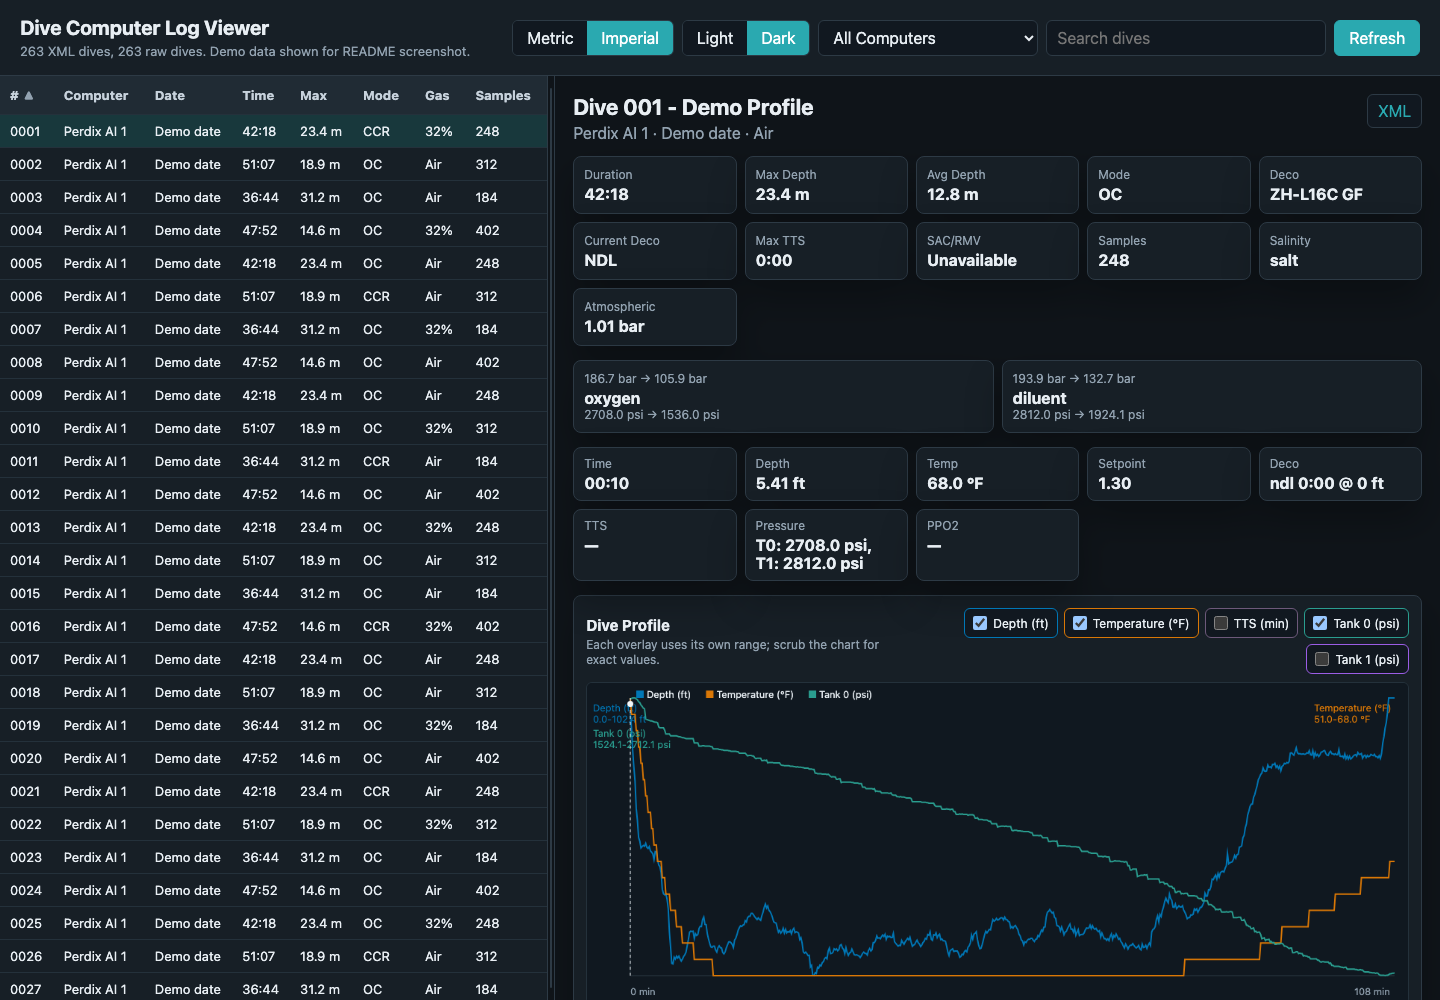
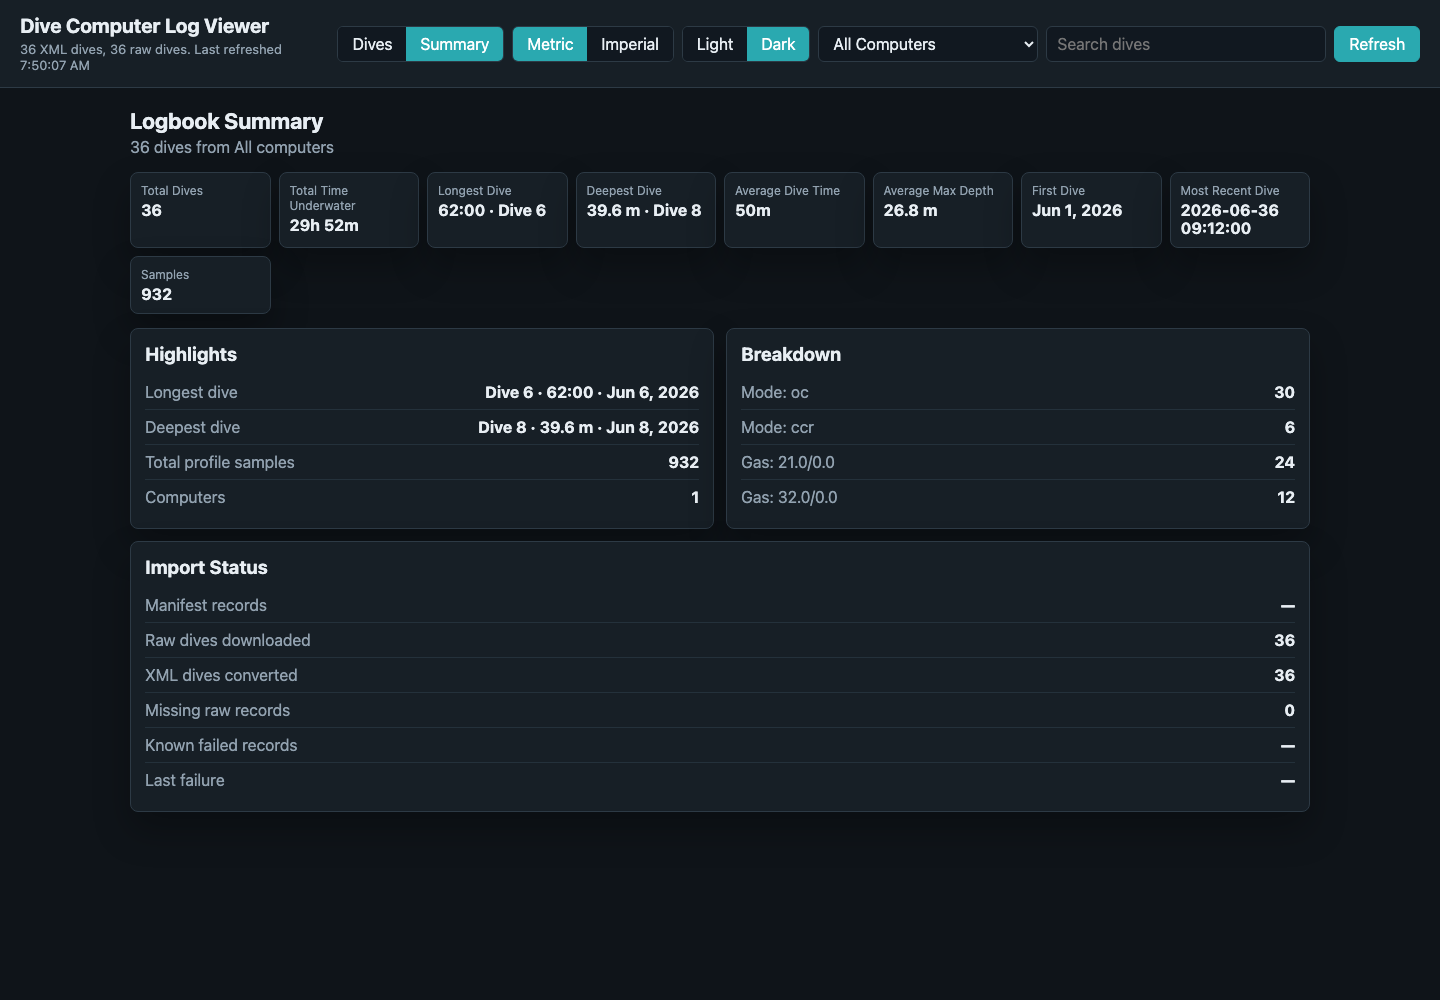
Update viewer screenshots

diff --git a/viewer/app.js b/viewer/app.js
@@ -1,19 +1,30 @@
+const urlParams = new URLSearchParams(window.location.search);
+
 const state = {
   dives: [],
   importStatus: null,
   selected: null,
-  view: localStorage.getItem("dclvView") || "dives",
+  view: urlParams.get("view") || localStorage.getItem("dclvView") || "dives",
   query: "",
   computer: "",
   sortKey: localStorage.getItem("dclvSortKey") || "displayNumber",
   sortDir: localStorage.getItem("dclvSortDir") || "asc",
-  units: localStorage.getItem("perdixUnits") || "metric",
-  theme: localStorage.getItem("perdixTheme") || (window.matchMedia("(prefers-color-scheme: dark)").matches ? "dark" : "light"),
+  units: urlParams.get("units") || localStorage.getItem("perdixUnits") || "metric",
+  theme: urlParams.get("theme") || localStorage.getItem("perdixTheme") || (window.matchMedia("(prefers-color-scheme: dark)").matches ? "dark" : "light"),
   visibleSeries: new Set(["depth", "temperature"]),
 };
 
 if (state.sortKey === "number") {
   state.sortKey = "displayNumber";
+}
+if (!["dives", "summary"].includes(state.view)) {
+  state.view = "dives";
+}
+if (!["metric", "imperial"].includes(state.units)) {
+  state.units = "metric";
+}
+if (!["light", "dark"].includes(state.theme)) {
+  state.theme = "light";
 }
 
 const els = {
@@ -278,6 +289,10 @@ async function loadSummaries() {
   renderSummary();
   const errors = data.errors?.length ? `, ${data.errors.length} parse errors` : "";
   els.status.textContent = `${data.xmlCount} XML dives, ${data.rawCount} raw dives${errors}. Last refreshed ${new Date().toLocaleTimeString()}`;
+  if (!state.selected && urlParams.get("select") === "first") {
+    const first = filteredDives().sort(compareDives)[0];
+    if (first) await selectDive(first.id);
+  }
 }
 
 function renderComputerFilter() {

diff --git a/scripts/serve_viewer.py b/scripts/serve_viewer.py
@@ -363,7 +363,7 @@ def import_status(raw_dir: Path, log_dir: Path = DEFAULT_LOG_DIR) -> dict[str, o
     }
 
 
-def summaries(xml_dir: Path, raw_dir: Path) -> dict[str, object]:
+def summaries(xml_dir: Path, raw_dir: Path, log_dir: Path = DEFAULT_LOG_DIR) -> dict[str, object]:
     dives = []
     errors = []
     for path in xml_files(xml_dir):
@@ -378,7 +378,7 @@ def summaries(xml_dir: Path, raw_dir: Path) -> dict[str, object]:
         "dives": dives,
         "xmlCount": len(dives),
         "rawCount": raw_count(raw_dir),
-        "status": import_status(raw_dir),
+        "status": import_status(raw_dir, log_dir),
         "errors": errors,
     }
 
@@ -403,6 +403,7 @@ def find_xml_by_id(xml_dir: Path, dive_id: str) -> Path | None:
 class ViewerHandler(BaseHTTPRequestHandler):
     xml_dir: Path = DEFAULT_XML_DIR
     raw_dir: Path = DEFAULT_RAW_DIR
+    log_dir: Path = DEFAULT_LOG_DIR
 
     def log_message(self, fmt: str, *args: object) -> None:
         print(f"{self.address_string()} - {fmt % args}")
@@ -451,7 +452,7 @@ class ViewerHandler(BaseHTTPRequestHandler):
         route = unquote(parsed.path)
 
         if route == "/api/dives":
-            self.send_json(summaries(self.xml_dir, self.raw_dir))
+            self.send_json(summaries(self.xml_dir, self.raw_dir, self.log_dir))
             return
 
         if route.startswith("/api/dives/"):
@@ -508,15 +509,18 @@ def main() -> int:
     parser.add_argument("--port", type=int, default=8080)
     parser.add_argument("--xml-dir", type=Path, default=DEFAULT_XML_DIR)
     parser.add_argument("--raw-dir", type=Path, default=DEFAULT_RAW_DIR)
+    parser.add_argument("--log-dir", type=Path, default=DEFAULT_LOG_DIR)
     args = parser.parse_args()
 
     ViewerHandler.xml_dir = args.xml_dir.resolve()
     ViewerHandler.raw_dir = args.raw_dir.resolve()
+    ViewerHandler.log_dir = args.log_dir.resolve()
 
     server = ThreadingHTTPServer((args.host, args.port), ViewerHandler)
     print(f"Serving viewer at http://{args.host}:{args.port}")
     print(f"XML directory: {ViewerHandler.xml_dir}")
     print(f"Raw directory: {ViewerHandler.raw_dir}")
+    print(f"Log directory: {ViewerHandler.log_dir}")
     server.serve_forever()
     return 0
 

diff --git a/README.md b/README.md
@@ -231,13 +231,19 @@ Start the viewer server:
 python3 scripts/serve_viewer.py
 ```
 
+For alternate data locations, pass explicit directories:
+
+```sh
+python3 scripts/serve_viewer.py --xml-dir data/xml --raw-dir data/raw --log-dir logs
+```
+
 Open:
 
 ```text
 http://127.0.0.1:8080
 ```
 
-Screenshots below use redacted demo values in the visible list/detail fields.
+Screenshots below use a sanitized demo fixture, not local dive data.
 
 ![Dive Computer Log Viewer light theme](docs/screenshots/viewer-light.png)
 
@@ -246,6 +252,13 @@ Screenshots below use redacted demo values in the visible list/detail fields.
 The viewer reads `data/xml/**/*.xml` on demand. You can keep downloading and
 converting dives in another terminal; click **Refresh** in the browser to rescan
 the XML directory.
+
+The viewer accepts optional URL parameters for shareable views and repeatable
+screenshots:
+
+```text
+?theme=light|dark&view=dives|summary&units=metric|imperial&select=first
+```
 
 Use the **Summary** view to see aggregate logbook stats such as total dives,
 total time underwater, longest dive, deepest dive, average dive time, average max

diff --git a/.agent/CONTINUITY.md b/.agent/CONTINUITY.md
@@ -35,3 +35,4 @@
 - 2026-07-04T13:10:38-0700 [agent] Updated viewer numbering to use chronological display numbers per dive computer while preserving original computer record numbers for filenames, resume checks, and detail subtitles.
 - 2026-07-05T07:32:10-0700 [agent] Documented observed manifest-vs-downloadable-data behavior: the Perdix AI can advertise active manifest records that reject body downloads, likely stale entries after circular log memory wrap.
 - 2026-07-05T07:35:00-0700 [agent] Updated README status to reflect the current local archive: 491 Perdix AI dives, 20 Petrel 3 dives, 511 raw/XML files total, auto-discovery support, and advisory limitations of log-derived import status with multiple computers.
+- 2026-07-05T07:50:00-0700 [agent] Updated README screenshots from a sanitized demo fixture. Added viewer URL parameters for repeatable screenshots/shareable state and `scripts/serve_viewer.py --log-dir` for isolated import-status logs.
